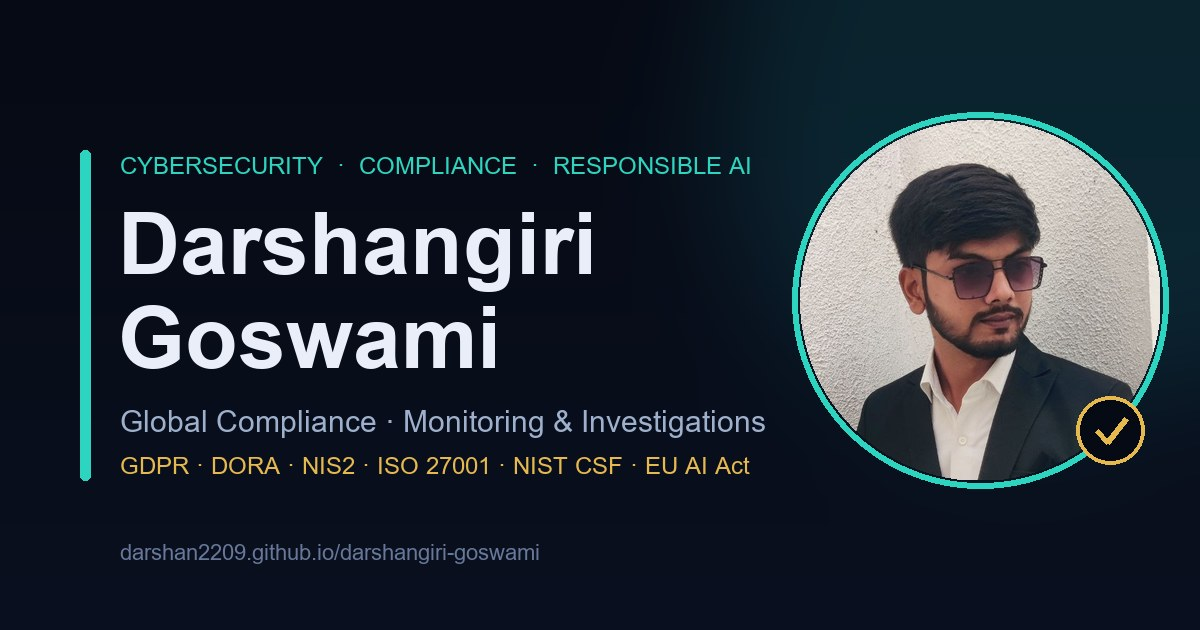
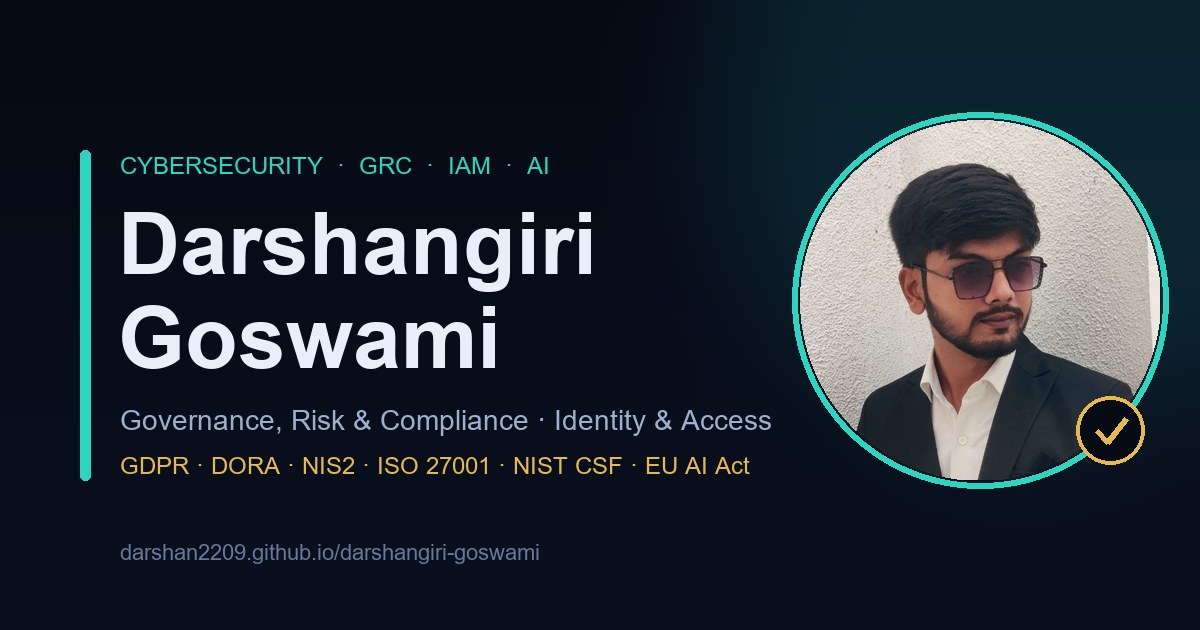
Content + UX update: relocation, 4500+ students, GRC/IAM/AI focus, Credly, hover tips
- "open to relocation" (was Frankfurt); "4500+ students" (was 150+ staff)
- Re-themed around GRC, IAM and AI in Cybersecurity: hero, about, roles, skills cards
  (new Identity & Access Management card), contact, brand subtitle, OG card
- Certifications link to real Credly profile + "verify all on Credly" button
- Hover/touch/keyboard tooltips with 1-2 line definitions on every framework,
  skill and certification (44 items; accessible via aria-label, focusable, Esc to close)
- Synced AI twin offline KB + backend CV (GRC/IAM/AI, metric, relocation, Credly)

Changed region(s): [[0.0925, 0.6333, 0.6475, 0.6937], [0.3083, 0.2413, 0.6167, 0.3016]]

diff --git a/index.html b/index.html
@@ -476,6 +476,16 @@ footer a{color:var(--muted)}
 .ai-input button:disabled{opacity:.4;cursor:not-allowed}
 .ai-input button svg{width:19px;height:19px}
 
+/* ============================================================= TOOLTIP */
+[data-tip]{cursor:help}
+.cert[data-tip]{cursor:pointer}
+.tip{position:fixed;z-index:120;max-width:260px;background:rgba(9,14,26,.98);
+  border:1px solid var(--border-bright);color:var(--text);font-family:var(--font-body);
+  font-size:.82rem;line-height:1.45;padding:9px 12px;border-radius:10px;box-shadow:var(--shadow);
+  opacity:0;transform:translateY(4px);pointer-events:none;transition:opacity .16s var(--ease),transform .16s var(--ease)}
+.tip.show{opacity:1;transform:none}
+@media print{ .tip{display:none} }
+
 /* ============================================================= REVEAL */
 .reveal{opacity:0;transform:translateY(26px);transition:opacity .7s var(--ease),transform .7s var(--ease)}
 .reveal.in{opacity:1;transform:none}
@@ -625,7 +635,7 @@ nav.links a::after{content:"";position:absolute;left:14px;right:14px;bottom:7px;
       <span class="mark" aria-hidden="true">
         <svg viewBox="0 0 24 24" fill="none" stroke="currentColor" stroke-width="1.8" stroke-linecap="round" stroke-linejoin="round"><path d="M12 2l8 3v6c0 5-3.5 8.5-8 11-4.5-2.5-8-6-8-11V5l8-3z"/><path d="M9 12l2 2 4-4"/></svg>
       </span>
-      <span style="line-height:1.1"><b>Darshangiri Goswami</b><span class="sub">Compliance · Responsible AI</span></span>
+      <span style="line-height:1.1"><b>Darshangiri Goswami</b><span class="sub">GRC · IAM · AI Security</span></span>
     </a>
     <nav class="links" id="navlinks">
       <a href="#about">About</a>
@@ -650,12 +660,12 @@ nav.links a::after{content:"";position:absolute;left:14px;right:14px;bottom:7px;
       <div class="hero-copy">
         <div class="status-row reveal">
           <span class="chip"><span class="dot"></span> Available immediately · up to 40 hrs/week</span>
-          <span class="chip"><span class="dot gold"></span> Berlin → open to Frankfurt</span>
+          <span class="chip"><span class="dot gold"></span> Berlin → open to relocation</span>
         </div>
         <p class="eyebrow reveal d1">Business Management &amp; Cybersecurity · MSc</p>
         <h1 class="reveal d1">I keep systems <span class="grad">compliant,</span> monitored &amp; accountable.</h1>
         <p class="hero-role mono reveal d2" id="role"></p>
-        <p class="hero-lead reveal d2">Working-student candidate in Global Compliance with hands-on experience in regulatory training, controls documentation, and reviewing flagged activity — with a real strength in process automation and ethical, responsible AI.</p>
+        <p class="hero-lead reveal d2">Working-student candidate focused on <strong>Governance, Risk &amp; Compliance (GRC)</strong>, <strong>Identity &amp; Access Management (IAM)</strong> and <strong>AI in cybersecurity</strong> — with hands-on experience in regulatory training, controls and access reviews, and responsible, AI-driven monitoring.</p>
         <div class="hero-actions reveal d3">
           <button class="btn btn-primary" id="askHero">
             <svg viewBox="0 0 24 24" fill="none" stroke="currentColor" stroke-width="2" stroke-linecap="round" stroke-linejoin="round"><path d="M12 2a9 9 0 0 0-9 9c0 1.6.4 3.1 1.1 4.4L3 21l5.6-1.1A9 9 0 1 0 12 2z"/><circle cx="8.5" cy="11" r="1" fill="currentColor" stroke="none"/><circle cx="12" cy="11" r="1" fill="currentColor" stroke="none"/><circle cx="15.5" cy="11" r="1" fill="currentColor" stroke="none"/></svg>
@@ -713,8 +723,8 @@ nav.links a::after{content:"";position:absolute;left:14px;right:14px;bottom:7px;
       <div class="about-body reveal d1">
         <p class="eyebrow">// About</p>
         <h2 style="font-size:var(--step-3);margin:.5rem 0 1rem">Compliance instinct, engineer's toolkit.</h2>
-        <p>I'm a <strong>Business Management &amp; Cybersecurity master's student</strong> who works at the intersection of governance and automation. My experience spans compliance and regulatory training, policy and controls documentation, and monitoring flagged activity through structured checks and assessments of system alerts.</p>
-        <p>Where I add an edge is <strong>process automation and AI-driven workflows</strong> — built with a deliberate focus on ethical, responsible AI. I'm seeking a Working Student role in Global Compliance to support monitoring, ongoing projects and digitalisation, and to grow financial-services and securities knowledge inside a conduct-and-ethics team.</p>
+        <p>I'm a <strong>Business Management &amp; Cybersecurity master's student</strong> who works at the intersection of governance, identity and automation. My experience spans <strong>Governance, Risk &amp; Compliance (GRC)</strong> — regulatory training, policy and controls documentation — and monitoring flagged activity through structured checks and assessments of system alerts.</p>
+        <p>Where I add an edge is <strong>Identity &amp; Access Management (IAM)</strong> and <strong>AI in cybersecurity</strong> — building responsible, AI-driven workflows for alert triage and access governance. I'm seeking a Working Student role in GRC, IAM or compliance to support monitoring, ongoing projects and digitalisation, and to grow financial-services and securities knowledge inside a conduct-and-ethics team.</p>
         <div class="about-langs">
           <div class="lang"><b>English</b> <span class="lvl mono">C1 · Fluent</span><div class="bar"><i style="width:90%"></i></div></div>
           <div class="lang"><b>German</b> <span class="lvl mono">A2 · Conversational</span><div class="bar"><i style="width:38%"></i></div></div>
@@ -728,7 +738,7 @@ nav.links a::after{content:"";position:absolute;left:14px;right:14px;bottom:7px;
 <section style="padding-top:0">
   <div class="wrap">
     <div class="stats reveal">
-      <div class="stat"><b>150<span class="u">+</span></b><span>Staff trained</span></div>
+      <div class="stat"><b>4500<span class="u">+</span></b><span>Students trained</span></div>
       <div class="stat"><b>95<span class="u">%</span></b><span>Certification rate</span></div>
       <div class="stat"><b>50<span class="u">+</span></b><span>Platforms monitored</span></div>
       <div class="stat"><b>7<span class="u">×</span></b><span>Security certifications</span></div>
@@ -742,49 +752,78 @@ nav.links a::after{content:"";position:absolute;left:14px;right:14px;bottom:7px;
     <div class="section-head reveal">
       <p class="eyebrow">// Capabilities</p>
       <h2>Skills &amp; frameworks</h2>
-      <p>Governance, monitoring and automation — anchored to the regulations and standards that matter in EU financial-services compliance.</p>
+      <p>GRC, IAM and AI in cybersecurity — anchored to the regulations and standards that matter in EU financial-services compliance. Hover or tap any item for a quick definition.</p>
     </div>
 
     <div class="framework-row reveal d1">
-      <span class="fw"><svg viewBox="0 0 24 24" fill="none" stroke="currentColor" stroke-width="2"><path d="M12 2l8 3v6c0 5-3.5 8.5-8 11-4.5-2.5-8-6-8-11V5l8-3z"/></svg>GDPR</span>
-      <span class="fw">DORA</span>
-      <span class="fw">NIS2</span>
-      <span class="fw">ISO 27001</span>
-      <span class="fw">NIST CSF</span>
-      <span class="fw">EU AI Act</span>
+      <span class="fw" data-tip="EU General Data Protection Regulation — governs how personal data is collected, processed and protected."><svg viewBox="0 0 24 24" fill="none" stroke="currentColor" stroke-width="2"><path d="M12 2l8 3v6c0 5-3.5 8.5-8 11-4.5-2.5-8-6-8-11V5l8-3z"/></svg>GDPR</span>
+      <span class="fw" data-tip="Digital Operational Resilience Act — EU rules making financial firms resilient to ICT and cyber disruption.">DORA</span>
+      <span class="fw" data-tip="NIS2 Directive — raises the baseline cybersecurity required of essential and important entities across the EU.">NIS2</span>
+      <span class="fw" data-tip="ISO/IEC 27001 — the international standard for an Information Security Management System (ISMS).">ISO 27001</span>
+      <span class="fw" data-tip="NIST Cybersecurity Framework — organises security into Identify, Protect, Detect, Respond and Recover.">NIST CSF</span>
+      <span class="fw" data-tip="EU AI Act — risk-based regulation for safe, transparent and accountable AI systems.">EU AI Act</span>
     </div>
 
     <div class="skills-grid">
       <div class="skill-card reveal d1">
         <div class="ic"><svg viewBox="0 0 24 24" fill="none" stroke="currentColor" stroke-width="1.8" stroke-linecap="round" stroke-linejoin="round"><path d="M12 2l8 3v6c0 5-3.5 8.5-8 11-4.5-2.5-8-6-8-11V5l8-3z"/><path d="M9 12l2 2 4-4"/></svg></div>
-        <h3>Compliance, Governance &amp; Ethics</h3>
+        <h3>Governance, Risk &amp; Compliance (GRC)</h3>
         <ul>
-          <li>Policy &amp; procedure documentation</li><li>Code of Conduct / acceptable-use training</li>
-          <li>Controls monitoring</li><li>Audit support</li><li>Regulatory &amp; compliance training</li>
+          <li data-tip="Writing and maintaining the policies and procedures that define how an organisation operates securely.">Policy &amp; procedure documentation</li>
+          <li data-tip="Training people on conduct and acceptable-use rules so policy becomes everyday practice.">Code of Conduct / acceptable-use training</li>
+          <li data-tip="Checking that security and compliance controls are in place and actually working.">Controls monitoring</li>
+          <li data-tip="Identifying, rating and tracking risks in a central register for treatment.">Risk assessment &amp; registers</li>
+          <li data-tip="Preparing evidence and documentation so internal and external audits run smoothly.">Audit support</li>
+          <li data-tip="Helping teams understand and meet their regulatory obligations.">Regulatory &amp; compliance training</li>
+        </ul>
+      </div>
+      <div class="skill-card reveal d2">
+        <div class="ic"><svg viewBox="0 0 24 24" fill="none" stroke="currentColor" stroke-width="1.8" stroke-linecap="round" stroke-linejoin="round"><circle cx="7.5" cy="15.5" r="4.5"/><path d="M10.7 12.3 20 3"/><path d="M16.5 6.5l3 3"/><path d="M14 9l2 2"/></svg></div>
+        <h3>Identity &amp; Access Management (IAM)</h3>
+        <ul>
+          <li data-tip="Granting the right access and periodically reviewing who can access what.">Access control &amp; access reviews</li>
+          <li data-tip="Managing access as people join, change roles, or leave (Joiner–Mover–Leaver).">Joiner–Mover–Leaver (JML)</li>
+          <li data-tip="Giving users only the access they need, organised by role-based access control.">Least privilege &amp; RBAC</li>
+          <li data-tip="Cloud identity &amp; access management with Microsoft Entra ID — the focus of SC-300.">Microsoft Entra ID (SC-300)</li>
+          <li data-tip="Policies that allow or block sign-ins based on user, device and risk signals.">Conditional access</li>
+          <li data-tip="Lifecycle, access certification and policy controls that keep identities compliant.">Identity governance</li>
+        </ul>
+      </div>
+      <div class="skill-card reveal d1">
+        <div class="ic"><svg viewBox="0 0 24 24" fill="none" stroke="currentColor" stroke-width="1.8" stroke-linecap="round" stroke-linejoin="round"><path d="M12 3a4 4 0 0 1 4 4 4 4 0 0 1 0 8 4 4 0 0 1-8 0 4 4 0 0 1 0-8 4 4 0 0 1 4-4z"/><path d="M12 7v10M8 11h8"/></svg></div>
+        <h3>AI in Cybersecurity &amp; Automation</h3>
+        <ul>
+          <li data-tip="Using AI to prioritise alerts and score risk so analysts focus on what matters.">AI-driven alert triage &amp; risk scoring</li>
+          <li data-tip="Python models that flag unusual activity for review.">Anomaly detection (Python)</li>
+          <li data-tip="Scripting repetitive security and compliance tasks to save time and reduce errors.">Workflow automation (Python / PowerShell)</li>
+          <li data-tip="Using Microsoft Copilot to speed up analysis, documentation and reporting.">Microsoft Copilot</li>
+          <li data-tip="Human-in-the-loop, explainable AI used safely and accountably.">Responsible &amp; ethical AI</li>
+          <li data-tip="Applying the EU AI Act's risk-based expectations to how AI is used.">EU AI Act awareness</li>
         </ul>
       </div>
       <div class="skill-card reveal d2">
         <div class="ic"><svg viewBox="0 0 24 24" fill="none" stroke="currentColor" stroke-width="1.8" stroke-linecap="round" stroke-linejoin="round"><circle cx="11" cy="11" r="7"/><path d="M21 21l-4.3-4.3"/><path d="M11 8v3l2 1"/></svg></div>
         <h3>Monitoring &amp; Investigations</h3>
         <ul>
-          <li>Reviewing system flags &amp; alerts</li><li>Checks &amp; assessments</li><li>Anomaly detection</li>
-          <li>Case documentation</li><li>Remediation tracking</li><li>Follow-up communication</li>
+          <li data-tip="Triaging security alerts to separate real issues from noise.">Reviewing system flags &amp; alerts</li>
+          <li data-tip="Structured reviews to confirm whether flagged activity is a genuine concern.">Checks &amp; assessments</li>
+          <li data-tip="Centralised log collection and detection using a SIEM such as Wazuh.">SIEM &amp; log analysis (Wazuh)</li>
+          <li data-tip="Recording findings and actions clearly for each investigation.">Case documentation</li>
+          <li data-tip="Following each issue through to closure, on schedule.">Remediation tracking</li>
+          <li data-tip="Keeping stakeholders informed through to resolution.">Follow-up communication</li>
         </ul>
       </div>
-      <div class="skill-card reveal d1">
-        <div class="ic"><svg viewBox="0 0 24 24" fill="none" stroke="currentColor" stroke-width="1.8" stroke-linecap="round" stroke-linejoin="round"><path d="M12 3a4 4 0 0 1 4 4 4 4 0 0 1 0 8 4 4 0 0 1-8 0 4 4 0 0 1 0-8 4 4 0 0 1 4-4z"/><path d="M12 7v10M8 11h8"/></svg></div>
-        <h3>Process Automation &amp; Responsible AI</h3>
-        <ul>
-          <li>Python</li><li>PowerShell</li><li>Workflow automation</li><li>AI-driven alert triage &amp; risk scoring</li>
-          <li>Microsoft Copilot</li><li>Ethical / responsible AI</li>
-        </ul>
-      </div>
-      <div class="skill-card reveal d2">
+      <div class="skill-card reveal d3">
         <div class="ic"><svg viewBox="0 0 24 24" fill="none" stroke="currentColor" stroke-width="1.8" stroke-linecap="round" stroke-linejoin="round"><rect x="3" y="4" width="18" height="14" rx="2"/><path d="M3 9h18M8 18v2m8-2v2M6 22h12"/></svg></div>
         <h3>Tools &amp; Strengths</h3>
         <ul>
-          <li>MS Excel</li><li>MS PowerPoint</li><li>MS Office</li><li>SQL</li>
-          <li>Discretion with sensitive info</li><li>Attention to detail</li><li>Clear communication</li>
+          <li data-tip="Data analysis, tracking and reporting.">MS Excel</li>
+          <li data-tip="Clear reporting and security-awareness material.">MS PowerPoint</li>
+          <li data-tip="Day-to-day documentation and collaboration.">MS Office</li>
+          <li data-tip="Querying data for monitoring and analysis.">SQL</li>
+          <li data-tip="Handling confidential data responsibly.">Discretion with sensitive info</li>
+          <li data-tip="Catching the small things that matter in compliance.">Attention to detail</li>
+          <li data-tip="Explaining complex topics simply, in writing and in person.">Clear communication</li>
         </ul>
       </div>
     </div>
@@ -808,7 +847,7 @@ nav.links a::after{content:"";position:absolute;left:14px;right:14px;bottom:7px;
           </div>
           <div class="t-loc mono">Ahmedabad, India</div>
           <ul>
-            <li>Delivered compliance and policy training to <b>150+ staff</b> on acceptable-use and access-control requirements, with <b>95% achieving certification</b>, building day-to-day adherence to governance and Code-of-Conduct-style policies.</li>
+            <li>Delivered compliance and policy training to <b>4500+ students</b> on acceptable-use and access-control requirements, with <b>95% achieving certification</b>, building day-to-day adherence to governance and Code-of-Conduct-style policies.</li>
             <li>Maintained policy, training and controls documentation in the LMS, keeping records current and <b>audit-ready</b> for review.</li>
             <li>Created awareness content mapped to recognised standards (<b>ISO 27001, NIST CSF</b>), helping non-specialist staff understand and follow compliance requirements.</li>
           </ul>
@@ -885,14 +924,18 @@ nav.links a::after{content:"";position:absolute;left:14px;right:14px;bottom:7px;
           <h2>Certifications</h2>
         </div>
         <div class="cert-grid">
-          <a class="cert reveal d1" href="https://learn.microsoft.com/credentials/" target="_blank" rel="noopener"><span class="badge"><svg viewBox="0 0 24 24" fill="none" stroke="currentColor" stroke-width="1.8"><circle cx="12" cy="9" r="6"/><path d="M9 14l-2 7 5-3 5 3-2-7"/></svg></span><span><span class="nm">Microsoft SC-900</span><span class="st">Security Fundamentals</span></span><span class="ext" aria-label="Verify"><svg viewBox="0 0 24 24" fill="none" stroke="currentColor" stroke-width="2" stroke-linecap="round" stroke-linejoin="round"><path d="M7 17L17 7M9 7h8v8"/></svg></span></a>
-          <a class="cert reveal d1" href="https://www.credly.com/users/darshangiri-goswami" target="_blank" rel="noopener"><span class="badge"><svg viewBox="0 0 24 24" fill="none" stroke="currentColor" stroke-width="1.8"><circle cx="12" cy="9" r="6"/><path d="M9 14l-2 7 5-3 5 3-2-7"/></svg></span><span><span class="nm">ISO/IEC 27001 Associate</span><span class="st">Information Security</span></span><span class="ext" aria-label="Verify"><svg viewBox="0 0 24 24" fill="none" stroke="currentColor" stroke-width="2" stroke-linecap="round" stroke-linejoin="round"><path d="M7 17L17 7M9 7h8v8"/></svg></span></a>
-          <a class="cert reveal d2" href="https://www.coursera.org/account/accomplishments/professional-cert/" target="_blank" rel="noopener"><span class="badge"><svg viewBox="0 0 24 24" fill="none" stroke="currentColor" stroke-width="1.8"><circle cx="12" cy="9" r="6"/><path d="M9 14l-2 7 5-3 5 3-2-7"/></svg></span><span><span class="nm">Google Cybersecurity</span><span class="st">Certificate</span></span><span class="ext" aria-label="Verify"><svg viewBox="0 0 24 24" fill="none" stroke="currentColor" stroke-width="2" stroke-linecap="round" stroke-linejoin="round"><path d="M7 17L17 7M9 7h8v8"/></svg></span></a>
-          <a class="cert reveal d2" href="https://www.credly.com/users/darshangiri-goswami" target="_blank" rel="noopener"><span class="badge"><svg viewBox="0 0 24 24" fill="none" stroke="currentColor" stroke-width="1.8"><circle cx="12" cy="9" r="6"/><path d="M9 14l-2 7 5-3 5 3-2-7"/></svg></span><span><span class="nm">Cisco CyberOps</span><span class="st">Associate</span></span><span class="ext" aria-label="Verify"><svg viewBox="0 0 24 24" fill="none" stroke="currentColor" stroke-width="2" stroke-linecap="round" stroke-linejoin="round"><path d="M7 17L17 7M9 7h8v8"/></svg></span></a>
-          <a class="cert reveal d3" href="https://www.credly.com/users/darshangiri-goswami" target="_blank" rel="noopener"><span class="badge"><svg viewBox="0 0 24 24" fill="none" stroke="currentColor" stroke-width="1.8"><circle cx="12" cy="9" r="6"/><path d="M9 14l-2 7 5-3 5 3-2-7"/></svg></span><span><span class="nm">GRC &amp; Threat Intelligence</span><span class="st">Certified Analyst</span></span><span class="ext" aria-label="Verify"><svg viewBox="0 0 24 24" fill="none" stroke="currentColor" stroke-width="2" stroke-linecap="round" stroke-linejoin="round"><path d="M7 17L17 7M9 7h8v8"/></svg></span></a>
-          <a class="cert prog reveal d3" href="https://learn.microsoft.com/credentials/certifications/identity-and-access-administrator/" target="_blank" rel="noopener"><span class="badge"><svg viewBox="0 0 24 24" fill="none" stroke="currentColor" stroke-width="1.8" stroke-linecap="round"><circle cx="12" cy="12" r="9"/><path d="M12 7v5l3 2"/></svg></span><span><span class="nm">Microsoft SC-300</span><span class="st">In progress</span></span><span class="ext" aria-label="Verify"><svg viewBox="0 0 24 24" fill="none" stroke="currentColor" stroke-width="2" stroke-linecap="round" stroke-linejoin="round"><path d="M7 17L17 7M9 7h8v8"/></svg></span></a>
-          <a class="cert prog reveal d4" style="grid-column:1/-1" href="https://www.comptia.org/certifications/security" target="_blank" rel="noopener"><span class="badge"><svg viewBox="0 0 24 24" fill="none" stroke="currentColor" stroke-width="1.8" stroke-linecap="round"><circle cx="12" cy="12" r="9"/><path d="M12 7v5l3 2"/></svg></span><span><span class="nm">CompTIA Security+ SY0-701</span><span class="st">In progress</span></span><span class="ext" aria-label="Verify"><svg viewBox="0 0 24 24" fill="none" stroke="currentColor" stroke-width="2" stroke-linecap="round" stroke-linejoin="round"><path d="M7 17L17 7M9 7h8v8"/></svg></span></a>
+          <a class="cert reveal d1" data-tip="Microsoft Security, Compliance &amp; Identity Fundamentals — core security and IAM concepts." href="https://www.credly.com/users/darshan-goswami.e4c6c92c" target="_blank" rel="noopener"><span class="badge"><svg viewBox="0 0 24 24" fill="none" stroke="currentColor" stroke-width="1.8"><circle cx="12" cy="9" r="6"/><path d="M9 14l-2 7 5-3 5 3-2-7"/></svg></span><span><span class="nm">Microsoft SC-900</span><span class="st">Security Fundamentals</span></span><span class="ext" aria-label="Verify"><svg viewBox="0 0 24 24" fill="none" stroke="currentColor" stroke-width="2" stroke-linecap="round" stroke-linejoin="round"><path d="M7 17L17 7M9 7h8v8"/></svg></span></a>
+          <a class="cert reveal d1" data-tip="Foundation in building and running an ISO/IEC 27001 information-security management system." href="https://www.credly.com/users/darshan-goswami.e4c6c92c" target="_blank" rel="noopener"><span class="badge"><svg viewBox="0 0 24 24" fill="none" stroke="currentColor" stroke-width="1.8"><circle cx="12" cy="9" r="6"/><path d="M9 14l-2 7 5-3 5 3-2-7"/></svg></span><span><span class="nm">ISO/IEC 27001 Associate</span><span class="st">Information Security</span></span><span class="ext" aria-label="Verify"><svg viewBox="0 0 24 24" fill="none" stroke="currentColor" stroke-width="2" stroke-linecap="round" stroke-linejoin="round"><path d="M7 17L17 7M9 7h8v8"/></svg></span></a>
+          <a class="cert reveal d2" data-tip="Professional certificate covering security fundamentals, SIEM, IDS and Python." href="https://www.credly.com/users/darshan-goswami.e4c6c92c" target="_blank" rel="noopener"><span class="badge"><svg viewBox="0 0 24 24" fill="none" stroke="currentColor" stroke-width="1.8"><circle cx="12" cy="9" r="6"/><path d="M9 14l-2 7 5-3 5 3-2-7"/></svg></span><span><span class="nm">Google Cybersecurity</span><span class="st">Certificate</span></span><span class="ext" aria-label="Verify"><svg viewBox="0 0 24 24" fill="none" stroke="currentColor" stroke-width="2" stroke-linecap="round" stroke-linejoin="round"><path d="M7 17L17 7M9 7h8v8"/></svg></span></a>
+          <a class="cert reveal d2" data-tip="SOC-analyst skills — security monitoring, detection and incident response." href="https://www.credly.com/users/darshan-goswami.e4c6c92c" target="_blank" rel="noopener"><span class="badge"><svg viewBox="0 0 24 24" fill="none" stroke="currentColor" stroke-width="1.8"><circle cx="12" cy="9" r="6"/><path d="M9 14l-2 7 5-3 5 3-2-7"/></svg></span><span><span class="nm">Cisco CyberOps</span><span class="st">Associate</span></span><span class="ext" aria-label="Verify"><svg viewBox="0 0 24 24" fill="none" stroke="currentColor" stroke-width="2" stroke-linecap="round" stroke-linejoin="round"><path d="M7 17L17 7M9 7h8v8"/></svg></span></a>
+          <a class="cert reveal d3" data-tip="Governance, risk &amp; compliance practice combined with threat-intelligence analysis." href="https://www.credly.com/users/darshan-goswami.e4c6c92c" target="_blank" rel="noopener"><span class="badge"><svg viewBox="0 0 24 24" fill="none" stroke="currentColor" stroke-width="1.8"><circle cx="12" cy="9" r="6"/><path d="M9 14l-2 7 5-3 5 3-2-7"/></svg></span><span><span class="nm">GRC &amp; Threat Intelligence</span><span class="st">Certified Analyst</span></span><span class="ext" aria-label="Verify"><svg viewBox="0 0 24 24" fill="none" stroke="currentColor" stroke-width="2" stroke-linecap="round" stroke-linejoin="round"><path d="M7 17L17 7M9 7h8v8"/></svg></span></a>
+          <a class="cert prog reveal d3" data-tip="Microsoft Identity &amp; Access Administrator — Entra ID, conditional access, identity governance." href="https://www.credly.com/users/darshan-goswami.e4c6c92c" target="_blank" rel="noopener"><span class="badge"><svg viewBox="0 0 24 24" fill="none" stroke="currentColor" stroke-width="1.8" stroke-linecap="round"><circle cx="12" cy="12" r="9"/><path d="M12 7v5l3 2"/></svg></span><span><span class="nm">Microsoft SC-300</span><span class="st">In progress</span></span><span class="ext" aria-label="Verify"><svg viewBox="0 0 24 24" fill="none" stroke="currentColor" stroke-width="2" stroke-linecap="round" stroke-linejoin="round"><path d="M7 17L17 7M9 7h8v8"/></svg></span></a>
+          <a class="cert prog reveal d4" style="grid-column:1/-1" data-tip="CompTIA's core security certification — threats, architecture, operations and risk." href="https://www.credly.com/users/darshan-goswami.e4c6c92c" target="_blank" rel="noopener"><span class="badge"><svg viewBox="0 0 24 24" fill="none" stroke="currentColor" stroke-width="1.8" stroke-linecap="round"><circle cx="12" cy="12" r="9"/><path d="M12 7v5l3 2"/></svg></span><span><span class="nm">CompTIA Security+ SY0-701</span><span class="st">In progress</span></span><span class="ext" aria-label="Verify"><svg viewBox="0 0 24 24" fill="none" stroke="currentColor" stroke-width="2" stroke-linecap="round" stroke-linejoin="round"><path d="M7 17L17 7M9 7h8v8"/></svg></span></a>
         </div>
+        <a class="btn btn-ghost reveal d4" style="margin-top:18px;width:100%" href="https://www.credly.com/users/darshan-goswami.e4c6c92c" target="_blank" rel="noopener">
+          <svg viewBox="0 0 24 24" fill="none" stroke="currentColor" stroke-width="2" stroke-linecap="round" stroke-linejoin="round"><circle cx="12" cy="8" r="6"/><path d="M9 13l-2 8 5-3 5 3-2-8"/></svg>
+          View &amp; verify all credentials on Credly
+        </a>
       </div>
       <div>
         <div class="section-head reveal" style="margin-bottom:28px">
@@ -923,8 +966,8 @@ nav.links a::after{content:"";position:absolute;left:14px;right:14px;bottom:7px;
   <div class="wrap">
     <div class="panel reveal">
       <p class="eyebrow" style="justify-content:center">// Let's talk</p>
-      <h2>Open to Working Student &amp; Compliance roles</h2>
-      <p>Based in Berlin, open to relocating to Frankfurt, and available immediately for up to 40 hrs/week. If you're building a conduct-and-ethics, monitoring or digitalisation team — let's connect.</p>
+      <h2>Open to Working Student roles in GRC, IAM &amp; Cybersecurity</h2>
+      <p>Based in Berlin, open to relocation, and available immediately for up to 40 hrs/week. If you're building a GRC, IAM, monitoring or digitalisation team — let's connect.</p>
       <div class="contact-actions">
         <a class="btn btn-primary" href="mailto:darshangoswami22922@gmail.com">
           <svg viewBox="0 0 24 24" fill="none" stroke="currentColor" stroke-width="2" stroke-linecap="round" stroke-linejoin="round"><path d="M4 4h16v16H4z"/><path d="M4 7l8 6 8-6"/></svg>
@@ -1160,7 +1203,7 @@ const io = new IntersectionObserver((entries) => {
 document.querySelectorAll('.reveal').forEach(el => io.observe(el));
 
 /* hero role typewriter */
-const roles = ['Global Compliance','Monitoring & Investigations','Responsible AI','Controls & Governance','Process Automation'];
+const roles = ['Governance, Risk & Compliance','Identity & Access (IAM)','AI in Cybersecurity','Monitoring & Investigations','Responsible AI'];
 const roleEl = document.getElementById('role');
 (function typeLoop(){
   if (window.matchMedia('(prefers-reduced-motion: reduce)').matches){ roleEl.textContent = roles.join(' · '); return; }
@@ -1235,8 +1278,10 @@ async function checkBackend(){
 
 /* offline fallback — keyword answers drawn from the CV */
 const KB = [
-  { k:['compliance','governance','grc','conduct','ethic','policy','controls','audit'],
-    a:"Darshan's compliance work spans policy &amp; procedure documentation, Code-of-Conduct / acceptable-use training, controls monitoring, audit support and regulatory training. At NIIT Foundation he trained 150+ staff (95% certified) and kept controls documentation audit-ready in the LMS." },
+  { k:['compliance','governance','grc','risk','conduct','ethic','policy','controls','audit'],
+    a:"Darshan's GRC (Governance, Risk &amp; Compliance) work spans policy &amp; procedure documentation, Code-of-Conduct / acceptable-use training, controls monitoring, risk assessment, audit support and regulatory training. At NIIT Foundation he trained 4500+ students (95% certified) and kept controls documentation audit-ready in the LMS." },
+  { k:['iam','identity','access','entra','sc-300','rbac','privilege','conditional','provision','joiner'],
+    a:"On Identity &amp; Access Management (IAM): access control and access reviews, Joiner–Mover–Leaver, least-privilege / RBAC, conditional access and identity governance — building toward Microsoft SC-300 (Entra ID)." },
   { k:['framework','gdpr','dora','nis2','iso','nist','standard','regulation'],
     a:"He works to GDPR, DORA, NIS2, ISO 27001 and NIST CSF, and has awareness of the EU AI Act. He has mapped awareness content directly to ISO 27001 and NIST CSF for non-specialist staff." },
   { k:['ai','automation','python','responsible','copilot','machine'],
@@ -1244,13 +1289,13 @@ const KB = [
   { k:['project','wazuh','homelab','siem','detection','monitor','anomaly'],
     a:"Two projects: (1) AI-Assisted Monitoring &amp; Automation — a Python anomaly-detection workflow with an AI platform API for risk scoring and playbook mapping; (2) a Monitoring &amp; Detection Homelab on Wazuh (Ubuntu/Windows) with file-integrity monitoring that caught 100+ unauthorised changes." },
   { k:['experience','work','job','niit','cyberdiplomat','analyst','trainer','role'],
-    a:"Experience: Cybersecurity Trainer at NIIT Foundation (Apr–Oct 2025) — trained 150+ staff, 95% certified; and Cybersecurity Research Analyst at The CyberDiplomat (Jul 2023–Mar 2024) — monitored 50+ platforms, triaged flags/alerts and tracked remediation to closure." },
+    a:"Experience: Cybersecurity Trainer at NIIT Foundation (Apr–Oct 2025) — trained 4500+ students, 95% certified; and Cybersecurity Research Analyst at The CyberDiplomat (Jul 2023–Mar 2024) — monitored 50+ platforms, triaged flags/alerts and tracked remediation to closure." },
   { k:['cert','sc-900','sc-300','security+','google','cisco','cyberops','qualif'],
     a:"Certifications: Microsoft SC-900, ISO/IEC 27001 Associate, Google Cybersecurity, Cisco CyberOps Associate, and Certified GRC &amp; Threat Intelligence Analyst — with Microsoft SC-300 and CompTIA Security+ SY0-701 in progress." },
   { k:['education','study','degree','msc','university','gisma','btech','student'],
     a:"He's an MSc student in Business Management &amp; Cybersecurity at GISMA University of Applied Sciences, Potsdam (Sep 2025 – expected Oct 2026), after a B.Tech in IT (GPA 8.76/10, German equivalent 1.6)." },
   { k:['available','availability','relocat','frankfurt','berlin','hours','start','location','contact','email','reach'],
-    a:"He's based in Berlin, open to relocating to Frankfurt, available immediately for up to 40 hrs/week. Reach him at darshangoswami22922@gmail.com, +49 155 1083 7720, or on LinkedIn." },
+    a:"He's based in Berlin, open to relocation, available immediately for up to 40 hrs/week. Reach him at darshangoswami22922@gmail.com, +49 155 1083 7720, or on LinkedIn." },
   { k:['language','english','german','speak'],
     a:"Languages: English at C1 (fluent) and German at A2 (conversational)." },
 ];
@@ -1308,6 +1353,48 @@ if (matchMedia('(hover:hover) and (pointer:fine)').matches &&
     el.addEventListener('pointerleave', () => { el.style.transform = ''; });
   });
 }
+
+/* hover / touch / keyboard detail tooltips for skills, frameworks & certifications */
+(function(){
+  const tip = document.createElement('div');
+  tip.className = 'tip'; tip.id = 'tip'; tip.setAttribute('role','tooltip');
+  document.body.appendChild(tip);
+  let current = null;
+  const canHover = matchMedia('(hover:hover) and (pointer:fine)').matches;
+
+  function place(el){
+    tip.style.left = '0px'; tip.style.top = '0px';
+    const r = el.getBoundingClientRect(), t = tip.getBoundingClientRect();
+    let x = r.left + r.width/2 - t.width/2;
+    x = Math.max(10, Math.min(x, innerWidth - t.width - 10));
+    let y = r.top - t.height - 10;
+    if (y < 10) y = r.bottom + 10;
+    tip.style.left = x + 'px'; tip.style.top = y + 'px';
+  }
+  function show(el){ const txt = el.getAttribute('data-tip'); if(!txt) return;
+    tip.textContent = txt; tip.classList.add('show'); current = el; place(el); }
+  function hide(){ tip.classList.remove('show'); current = null; }
+
+  document.querySelectorAll('[data-tip]').forEach(el => {
+    if (!el.hasAttribute('aria-label')) el.setAttribute('aria-label', el.textContent.trim() + ' — ' + el.getAttribute('data-tip'));
+    if (el.tagName !== 'A' && el.tabIndex < 0) el.tabIndex = 0;
+    if (canHover){
+      el.addEventListener('pointerenter', () => show(el));
+      el.addEventListener('pointerleave', hide);
+    }
+    el.addEventListener('focus', () => show(el));
+    el.addEventListener('blur', hide);
+  });
+
+  // touch: first tap reveals the detail; a second tap on a link follows through
+  document.addEventListener('touchstart', e => {
+    const el = e.target.closest('[data-tip]');
+    if (!el){ if (current) hide(); return; }
+    if (current !== el){ if (el.tagName === 'A') e.preventDefault(); show(el); }
+  }, { passive:false });
+  addEventListener('scroll', () => { if (current) hide(); }, { passive:true });
+  addEventListener('keydown', e => { if (e.key === 'Escape' && current) hide(); });
+})();
 </script>
 
 </body>

diff --git a/ai-twin-server.py b/ai-twin-server.py
@@ -25,9 +25,9 @@ PORT = 8787
 
 # --- The grounding: Darshan's CV, given to Claude as a cached system prompt -----
 CV = """\
-Darshangiri Goswami — Working Student candidate: Global Compliance | Monitoring & Investigations | Responsible AI.
-Location: Berlin, Germany (open to relocating to Frankfurt). Available immediately, up to 40 hrs/week.
-Contact: +49 155 1083 7720 | darshangoswami22922@gmail.com | linkedin.com/in/darshangiri-goswami-033283213
+Darshangiri Goswami — Working Student candidate: Governance, Risk & Compliance (GRC) | Identity & Access Management (IAM) | Monitoring & Investigations | AI in Cybersecurity.
+Location: Berlin, Germany (open to relocation). Available immediately, up to 40 hrs/week.
+Contact: +49 155 1083 7720 | darshangoswami22922@gmail.com | linkedin.com/in/darshangiri-goswami-033283213 | credly.com/users/darshan-goswami.e4c6c92c
 
 SUMMARY
 Business Management & Cybersecurity master's student with hands-on experience in compliance and regulatory
@@ -39,18 +39,20 @@ projects and digitalisation, and keen to build financial-services and securities
 ethics compliance team.
 
 SKILLS
-- Compliance, Governance & Ethics: policy & procedure documentation, Code of Conduct / acceptable-use training,
-  controls monitoring, audit support, regulatory & compliance training; frameworks GDPR, DORA, NIS2, ISO 27001, NIST CSF.
+- Governance, Risk & Compliance (GRC): policy & procedure documentation, Code of Conduct / acceptable-use training,
+  controls monitoring, risk assessment & registers, audit support, regulatory & compliance training; frameworks GDPR, DORA, NIS2, ISO 27001, NIST CSF.
+- Identity & Access Management (IAM): access control & access reviews, Joiner-Mover-Leaver, least-privilege / RBAC,
+  Microsoft Entra ID (SC-300), conditional access, identity governance.
 - Monitoring & Investigations: reviewing system flags and alerts, checks and assessments, anomaly detection,
-  case documentation, remediation tracking, follow-up communication.
-- Process Automation & Responsible AI: Python, PowerShell, workflow automation, AI-driven alert triage and risk
-  scoring, Microsoft Copilot; awareness of the EU AI Act and ethical / responsible AI practices.
+  SIEM & log analysis (Wazuh), case documentation, remediation tracking, follow-up communication.
+- AI in Cybersecurity & Automation: Python, PowerShell, workflow automation, AI-driven alert triage and risk
+  scoring, anomaly detection, Microsoft Copilot; awareness of the EU AI Act and ethical / responsible AI practices.
 - Tools: MS Excel, MS PowerPoint, MS Office, SQL.
 - Strengths: discretion with sensitive information, attention to detail, clear written and verbal communication.
 
 EXPERIENCE
 1) Cybersecurity Trainer — NIIT Foundation — Ahmedabad, India — Apr 2025 to Oct 2025
-   - Delivered compliance and policy training to 150+ staff on acceptable-use and access-control requirements,
+   - Delivered compliance and policy training to 4500+ students on acceptable-use and access-control requirements,
      with 95% achieving certification, building day-to-day adherence to governance and Code-of-Conduct policies.
    - Maintained policy, training and controls documentation in the LMS, keeping records current and audit-ready.
    - Created awareness content mapped to ISO 27001 and NIST CSF for non-specialist staff.

diff --git a/generate_assets.py b/generate_assets.py
@@ -55,12 +55,12 @@ def make_og():
     d.rounded_rectangle((80, 150, 90, 480), radius=5, fill=TEAL)
 
     # eyebrow
-    d.text((120, 152), "CYBERSECURITY  ·  COMPLIANCE  ·  RESPONSIBLE AI", font=font(False, 24), fill=TEAL)
+    d.text((120, 152), "CYBERSECURITY  ·  GRC  ·  IAM  ·  AI", font=font(False, 24), fill=TEAL)
     # name (two lines)
     d.text((118, 196), "Darshangiri", font=font(True, 86), fill=TEXT)
     d.text((118, 290), "Goswami", font=font(True, 86), fill=TEXT)
     # role
-    d.text((120, 404), "Global Compliance · Monitoring & Investigations", font=font(False, 30), fill=MUTED)
+    d.text((120, 404), "Governance, Risk & Compliance · Identity & Access", font=font(False, 28), fill=MUTED)
     # frameworks
     d.text((120, 452), "GDPR · DORA · NIS2 · ISO 27001 · NIST CSF · EU AI Act", font=font(False, 24), fill=GOLD)
     # url
